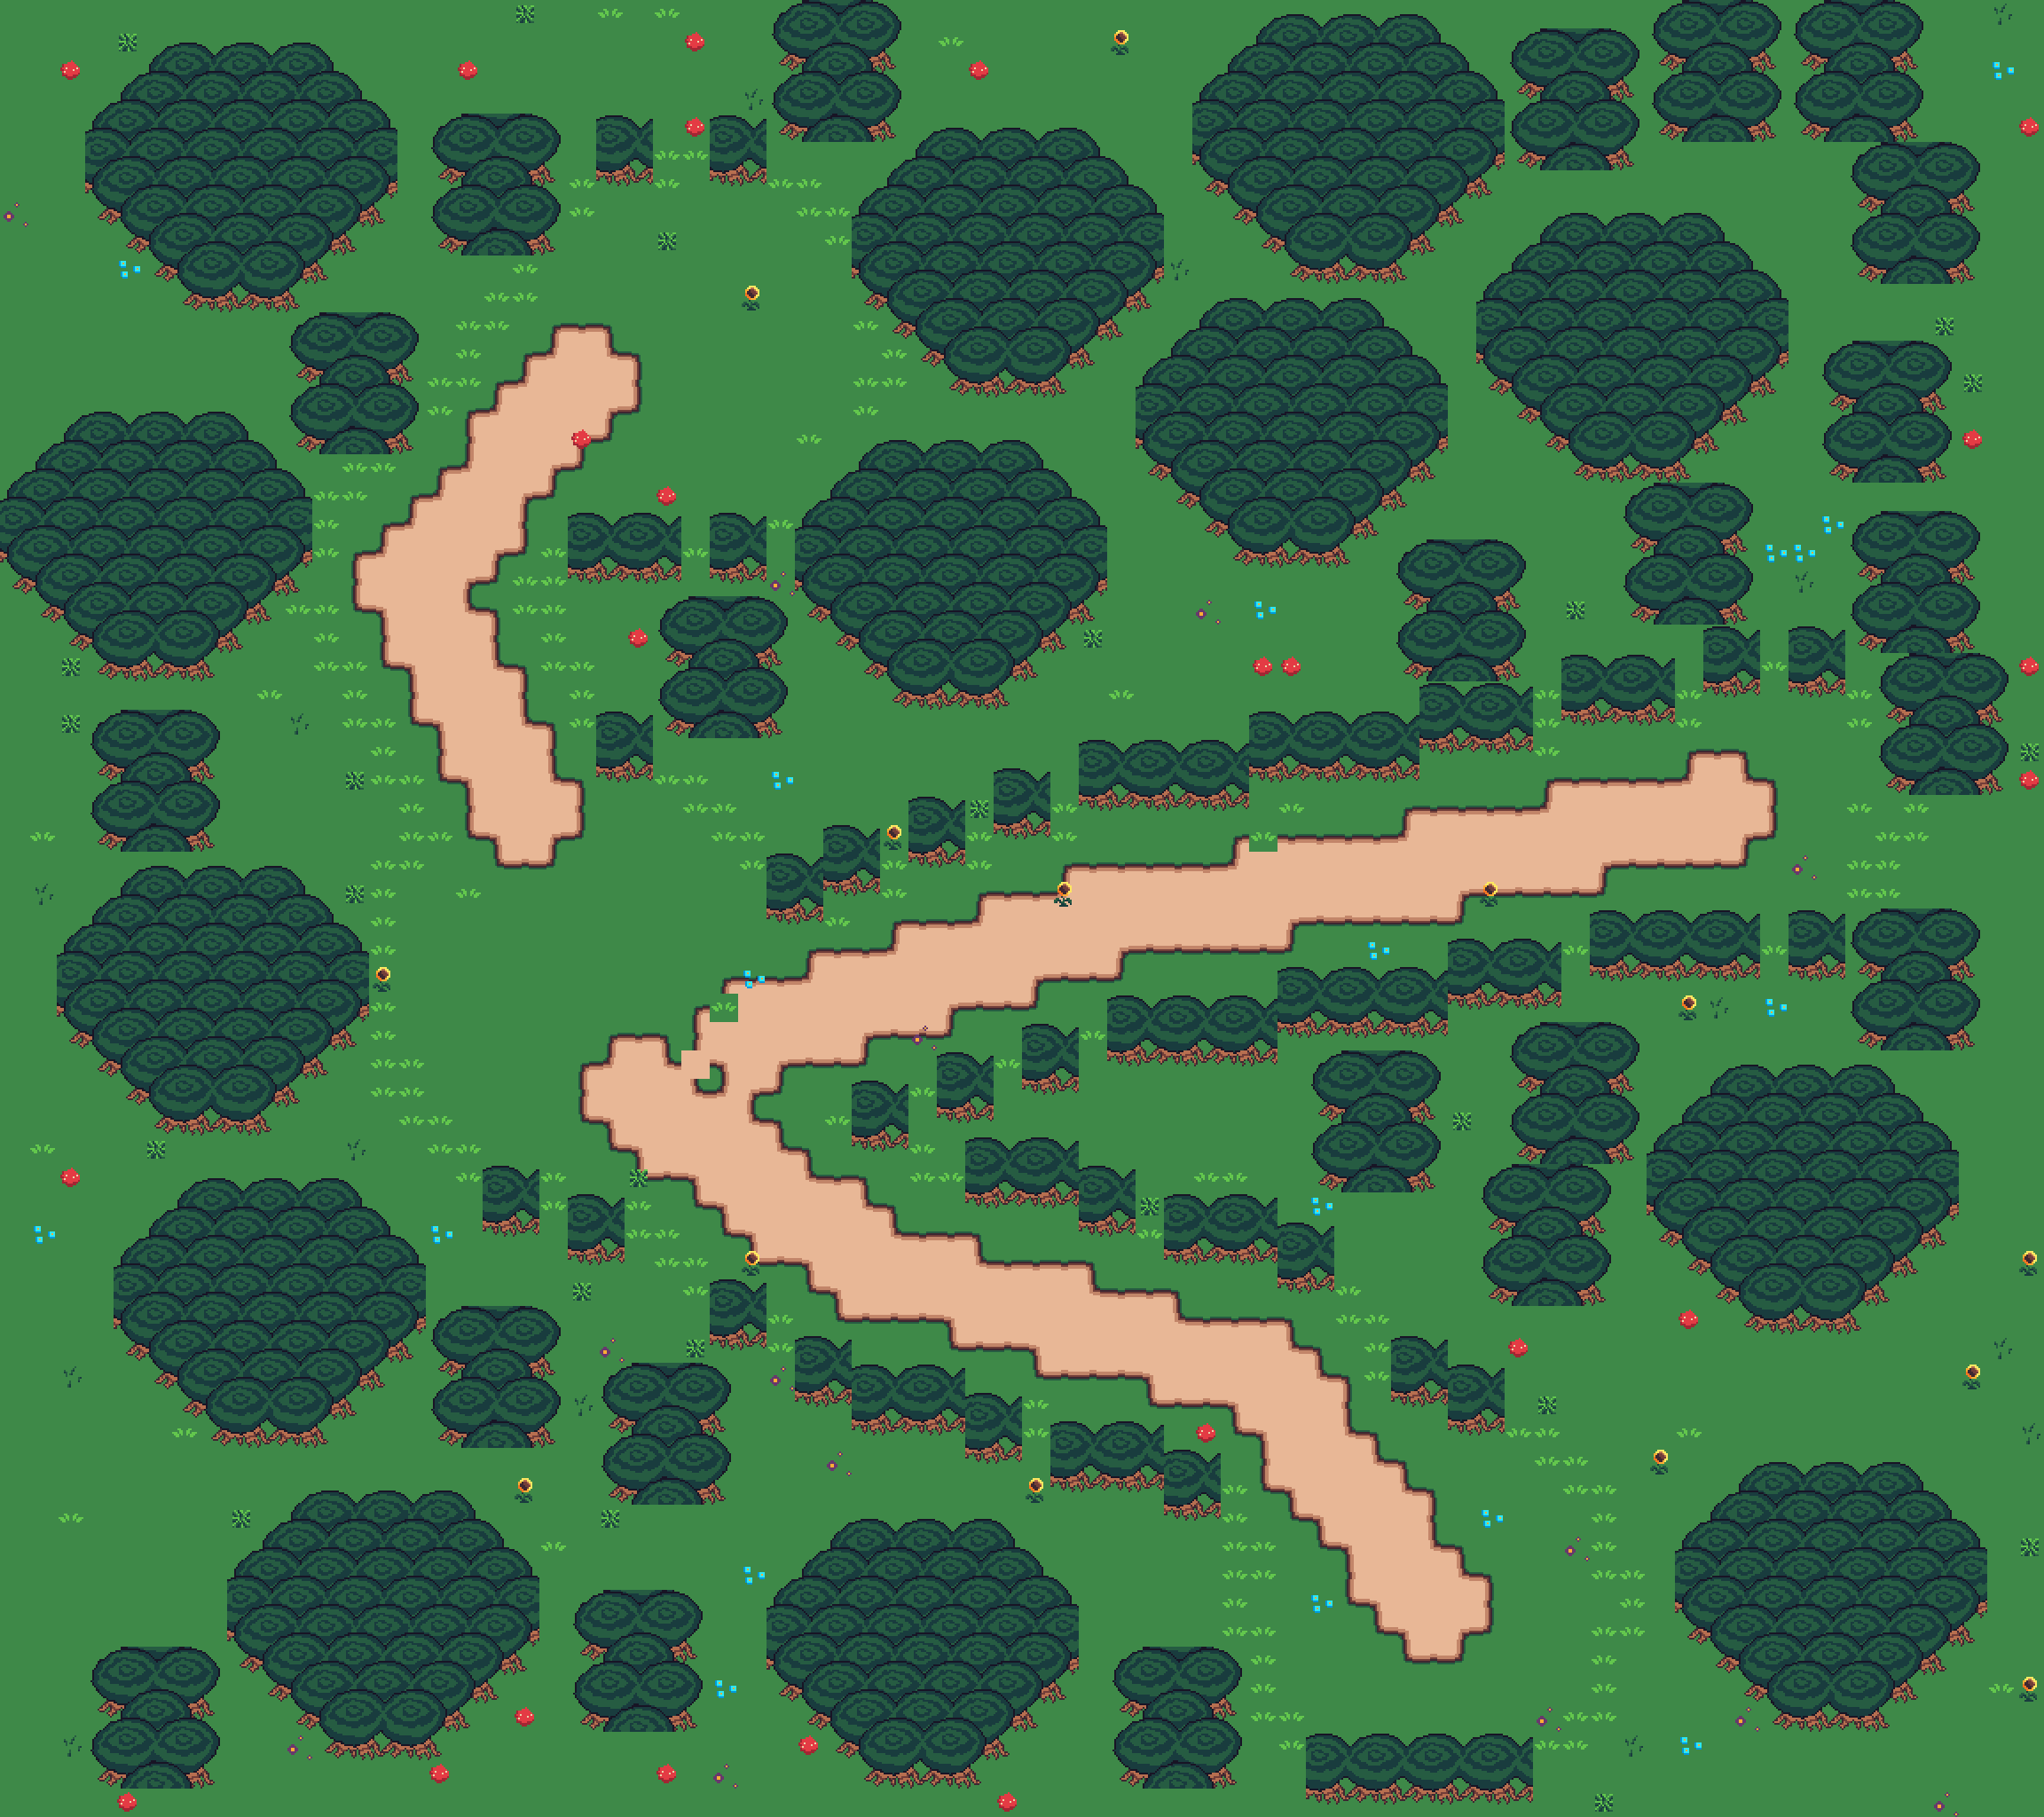
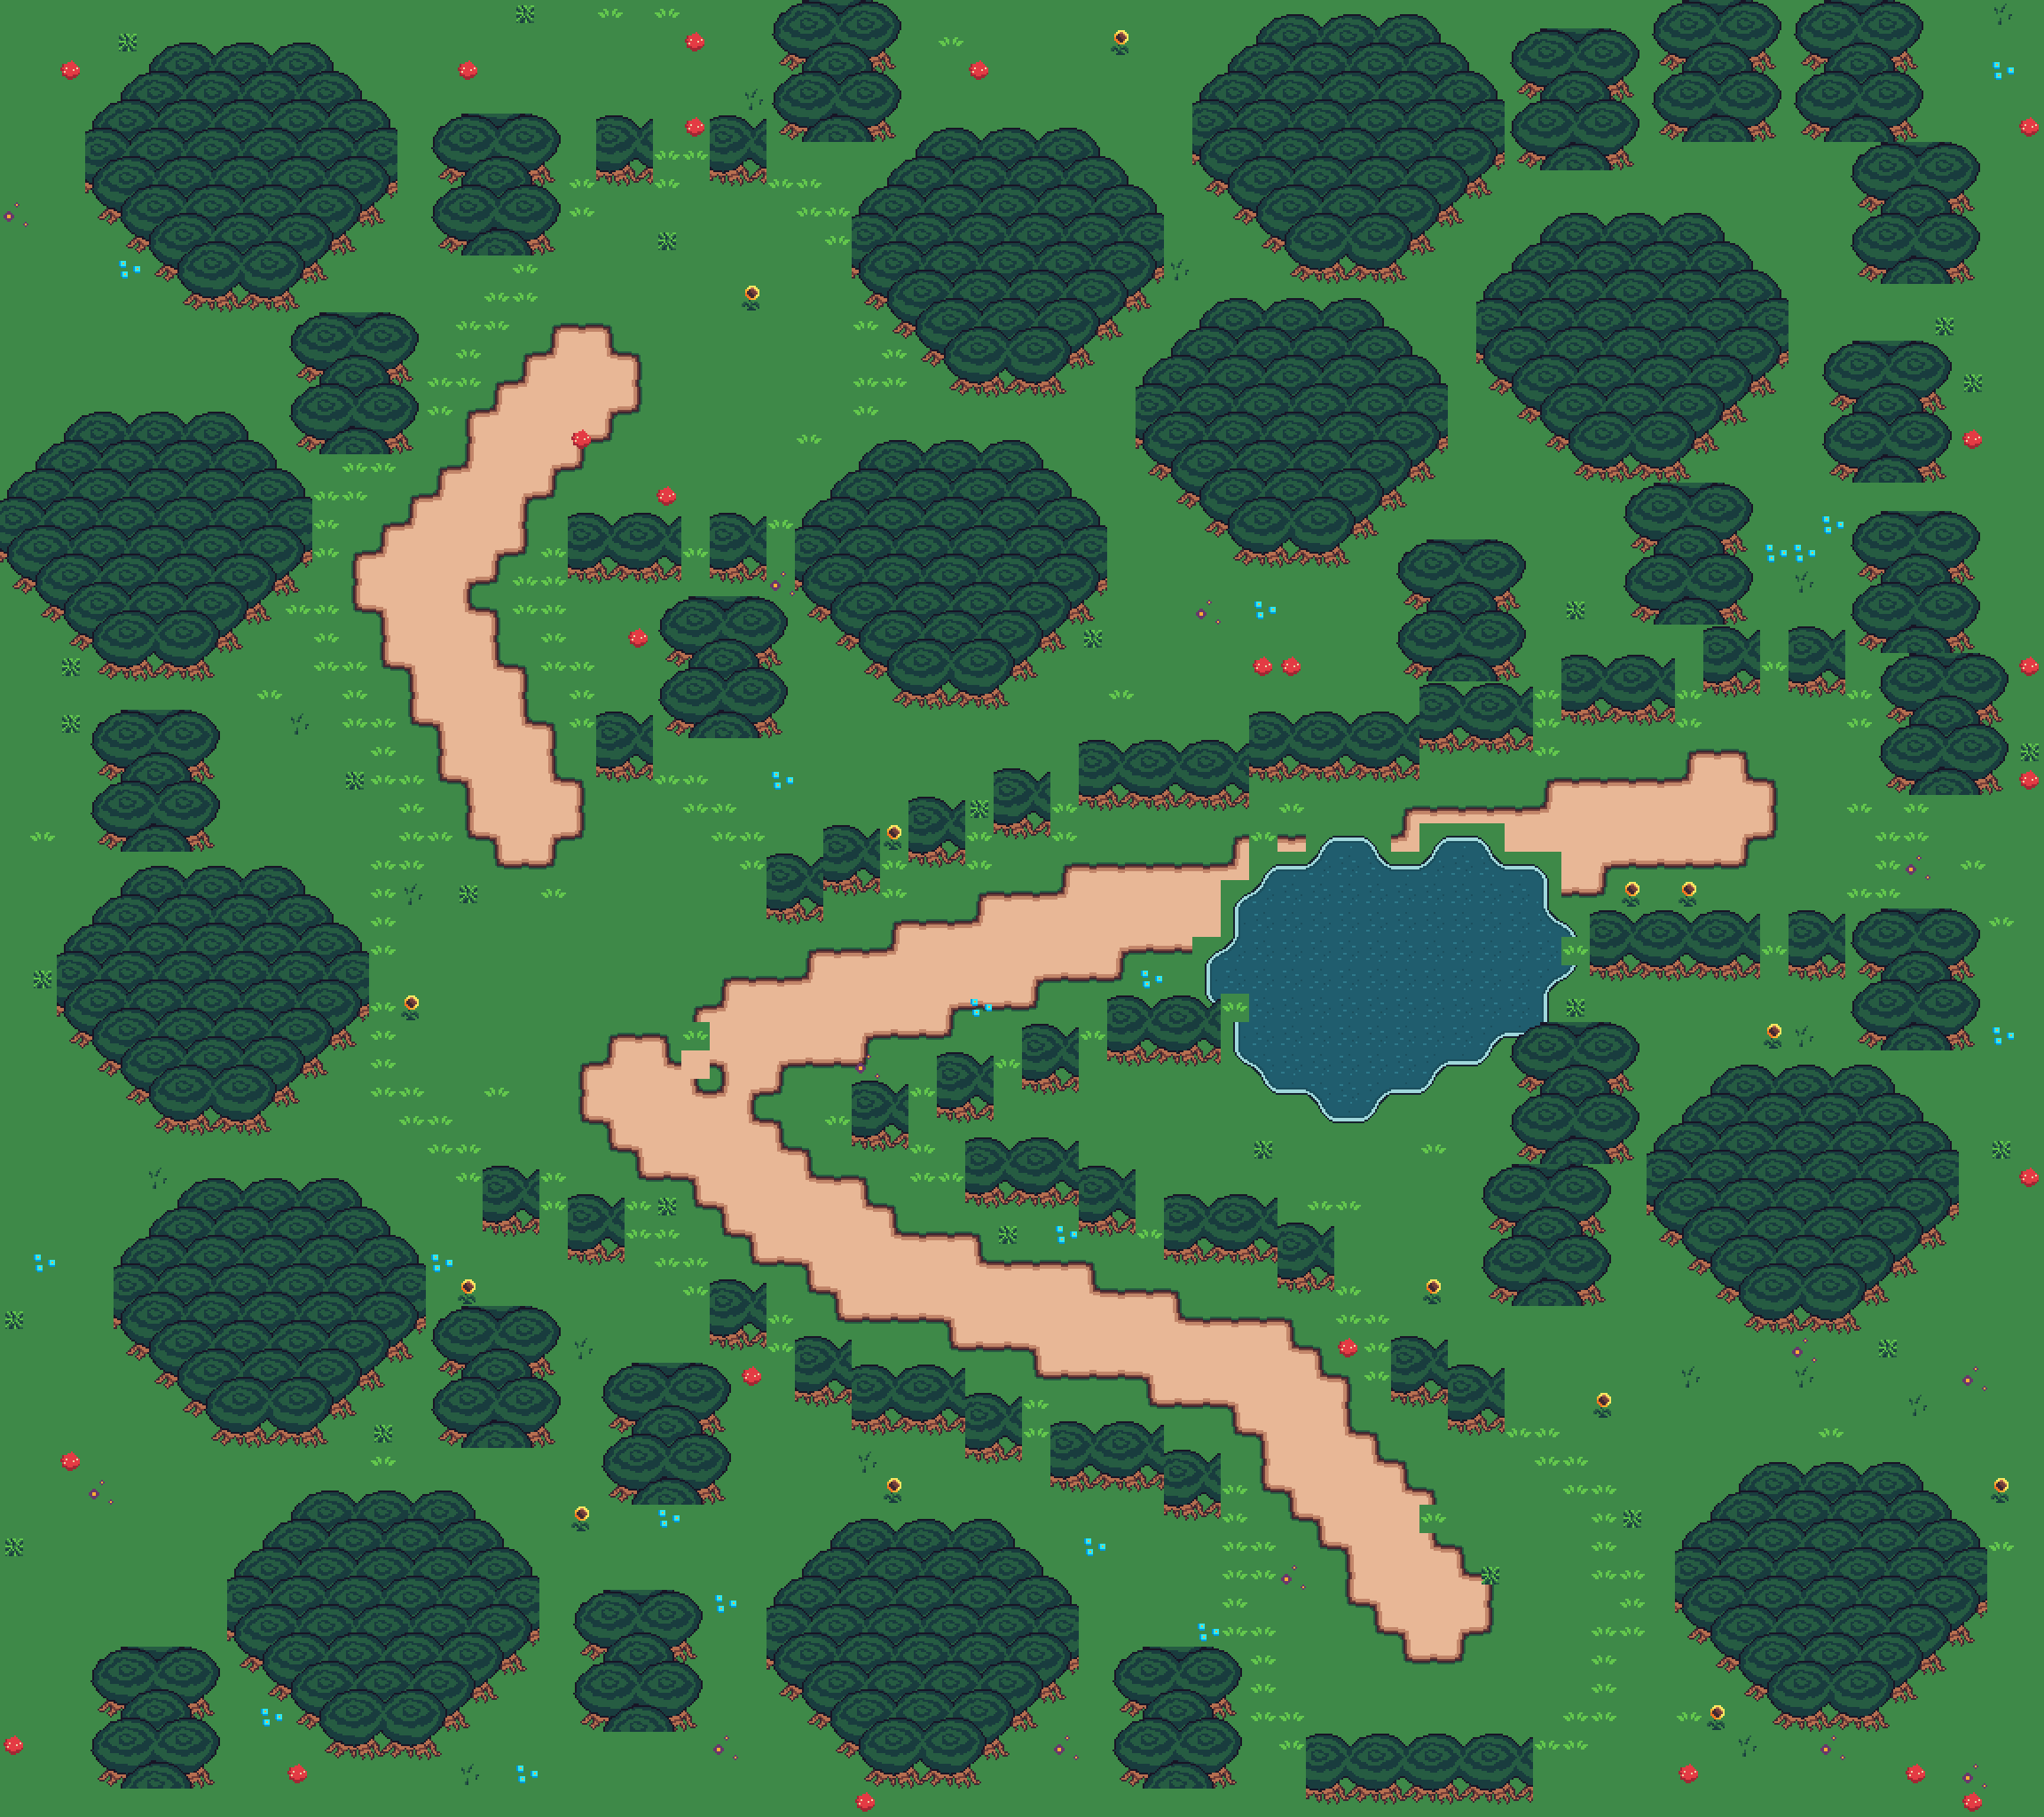
feat(map): water support in forest-gen (Grass Water wangset, solid collision) + pond landmark on Verdelight east road

diff --git a/docs/index.html b/docs/index.html
@@ -9,7 +9,7 @@
     <link rel="preconnect" href="https://fonts.gstatic.com" crossorigin>
     <link rel="stylesheet" href="https://fonts.googleapis.com/css2?family=Inter:wght@100..900" />
     <link href="https://fonts.googleapis.com/css2?family=Press+Start+2P&display=swap" rel="stylesheet">
-    <script type="module" crossorigin src="/kuesuto/assets/index-5014f078.js"></script>
+    <script type="module" crossorigin src="/kuesuto/assets/index-f5072b4e.js"></script>
     <link rel="stylesheet" href="/kuesuto/assets/index-0a1577da.css">
   </head>
   <body>